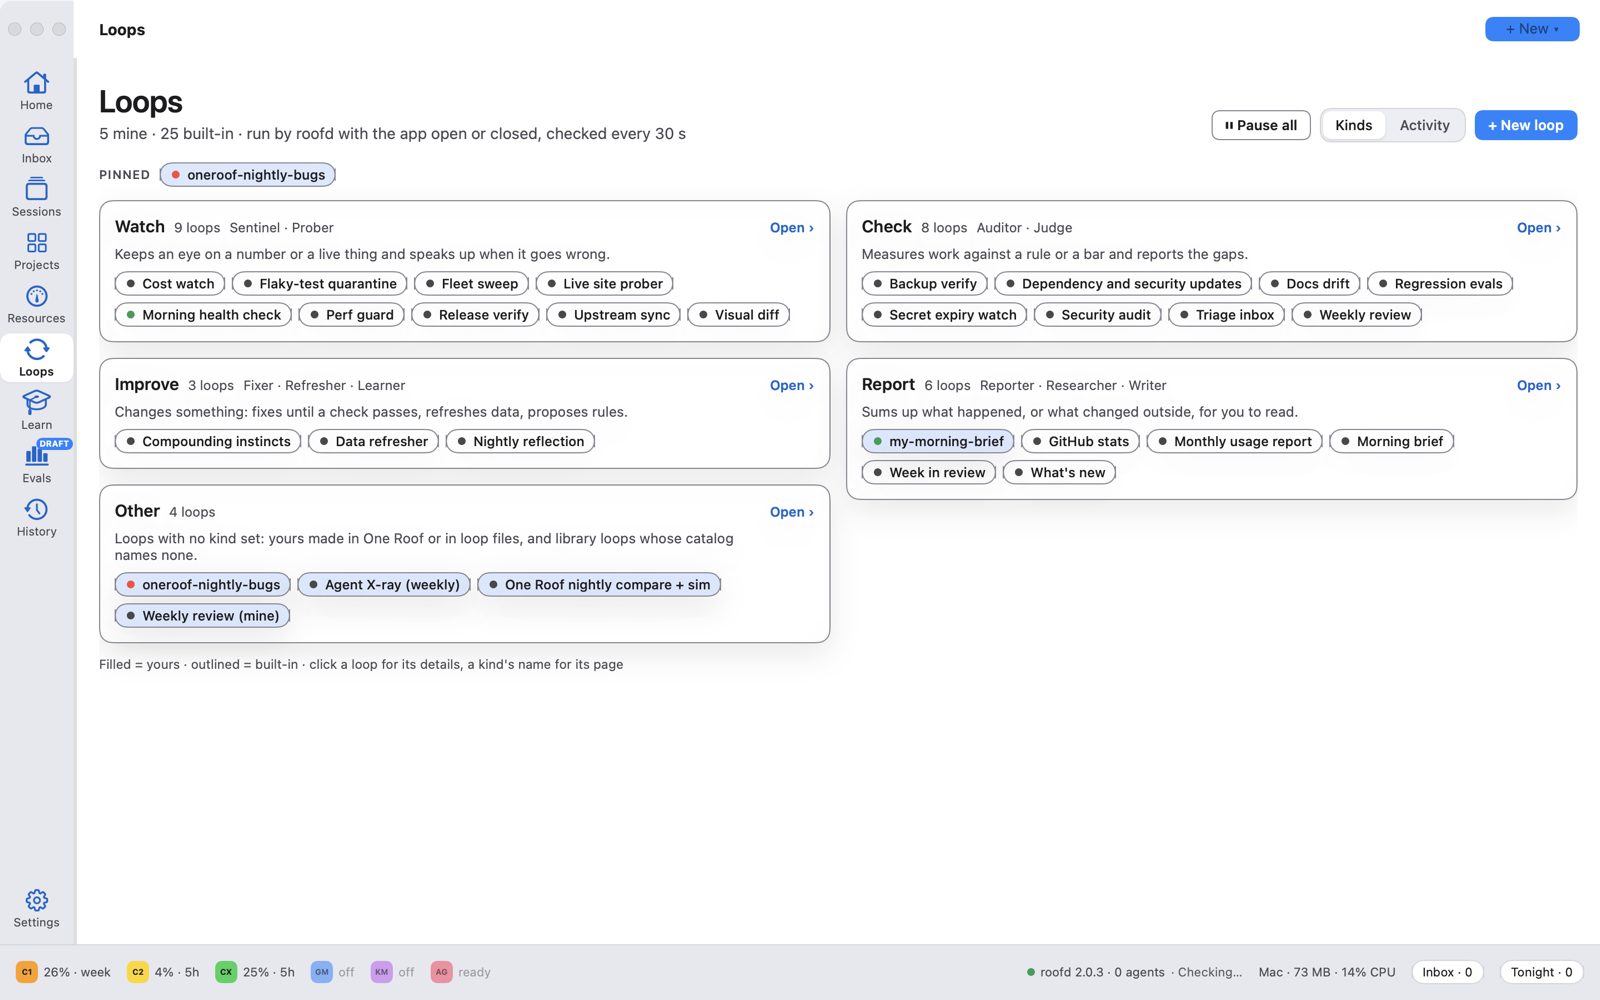
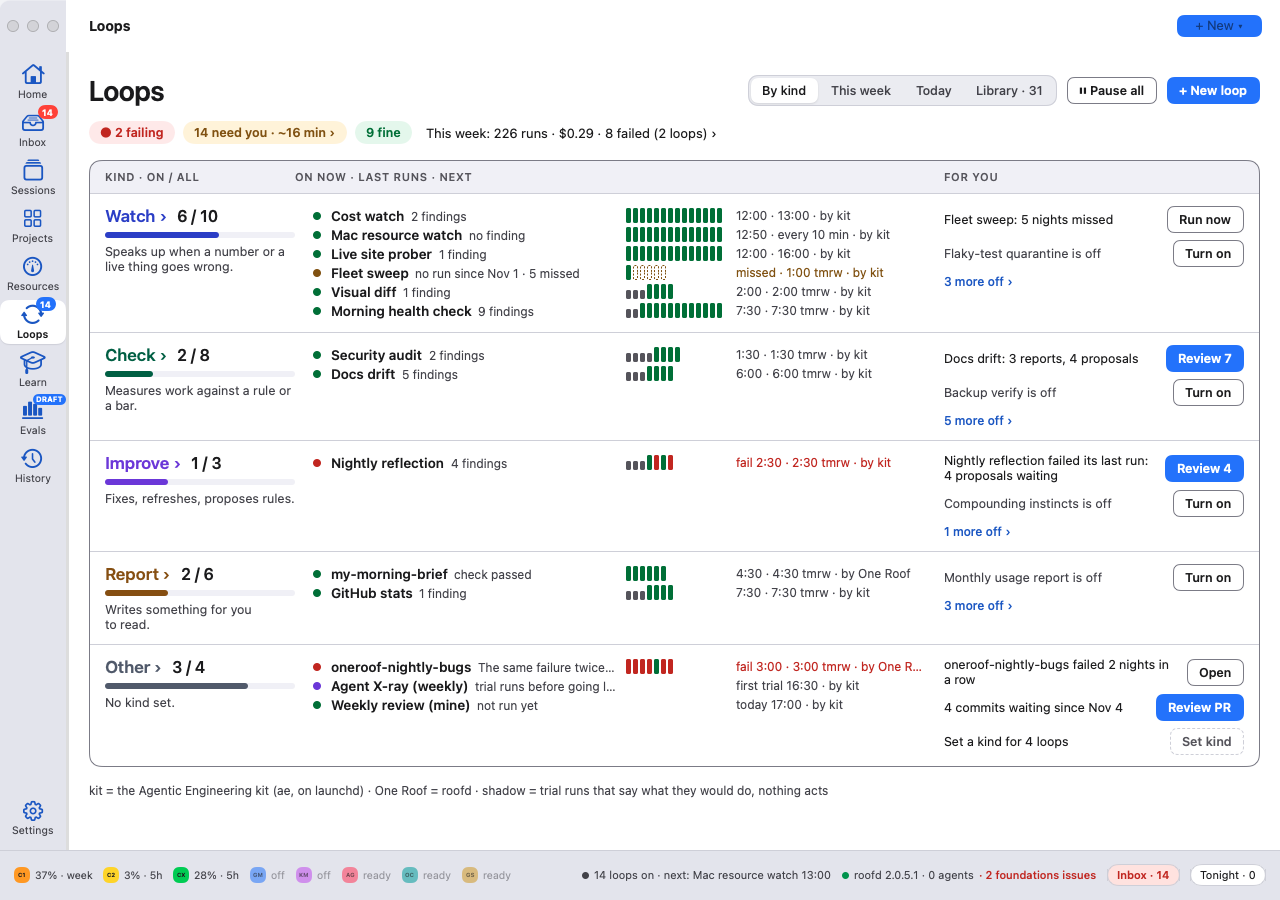
LAB-2296 · [lab-oneroof-v206] One Roof page: Loops section for 2.0.6 (by kind, missed runs, real state) + new screenshot; CHANGELOG trial wording

diff --git a/site/index.html b/site/index.html
@@ -201,6 +201,7 @@
           <span class="tag tag-band"><i style="background:var(--c3)"></i>Loops</span>
           <h3 class="h3-band">Work that repeats until a check passes.</h3>
           <p>A loop gives an agent a goal and a check, such as "until the tests pass" or "every night at 3". One Roof runs the check, starts another round when it fails, and stops at a limit. The agent works in the loop's own copy of the repo, never in yours. What a loop produces waits in the Inbox for your approval.</p>
+          <p>The Loops page opens on your loops by kind (Watch, Check, Improve, Report), each with its last runs and what it needs from you. It shows which runs were missed, what is running now, this week day by day, and every run's report. Loops run by the Agentic Engineering kit and by One Roof show side by side, each with its real state.</p>
         </div>
         <div class="steps">
           <div><span>1</span><span><b>Check first.</b> <span class="dim">If it already passes, no agent is started.</span></span></div>
@@ -209,7 +210,7 @@
           <div><span>4</span><span><b>You decide.</b> <span class="dim">A loop never pushes, merges or deploys on its own.</span></span></div>
         </div>
       </div>
-      <div class="shot"><img src="shots/loops.png" width="1600" height="1000" loading="lazy" alt="Loops: four cards, Watch, Check, Improve and Report, each listing its loops by name"></div>
+      <div class="shot"><img src="shots/loops.png" width="1280" height="900" loading="lazy" alt="Loops by kind: Watch, Check, Improve, Report and Other as lanes, each with the loops that are on, their last runs, next run and what they need from you"></div>
     </section>
 
     <section id="resources" class="feature">

diff --git a/CHANGELOG.md b/CHANGELOG.md
@@ -22,8 +22,9 @@ outcome ledger.
 - **One loop's page.** State, schedule, recent runs, what waits for you, and its actions, instead of the pop-out.
 - **A round's question** shows the command, the worktree and why; Allow once and Deny are your answers. Always for this
   loop writes one exact allow rule into that loop's own agent settings, never a blanket one.
-- **Library, New and Edit.** Every loop's definition with the same filter bar; new and turned-on loops start with trial
-  runs; Set kind for your own loops.
+- **Library, New and Edit.** Every loop's definition with the same filter bar; Set kind for your own loops. A kit loop
+  you turn on starts with trial (shadow) runs that only say what they would do; a One Roof loop is marked "trial" for
+  its first 3 runs, which work on the loop's own branch.
 - **Evals fills the window.** The Evals pages no longer stop at a fixed width. (LAB-2273)
 - **No more Hugging Face password prompts from test copies.** Only One Roof running from /Applications reads the
   Hugging Face token; test and candidate copies never touch the Keychain. (LAB-2246, LAB-2251)
